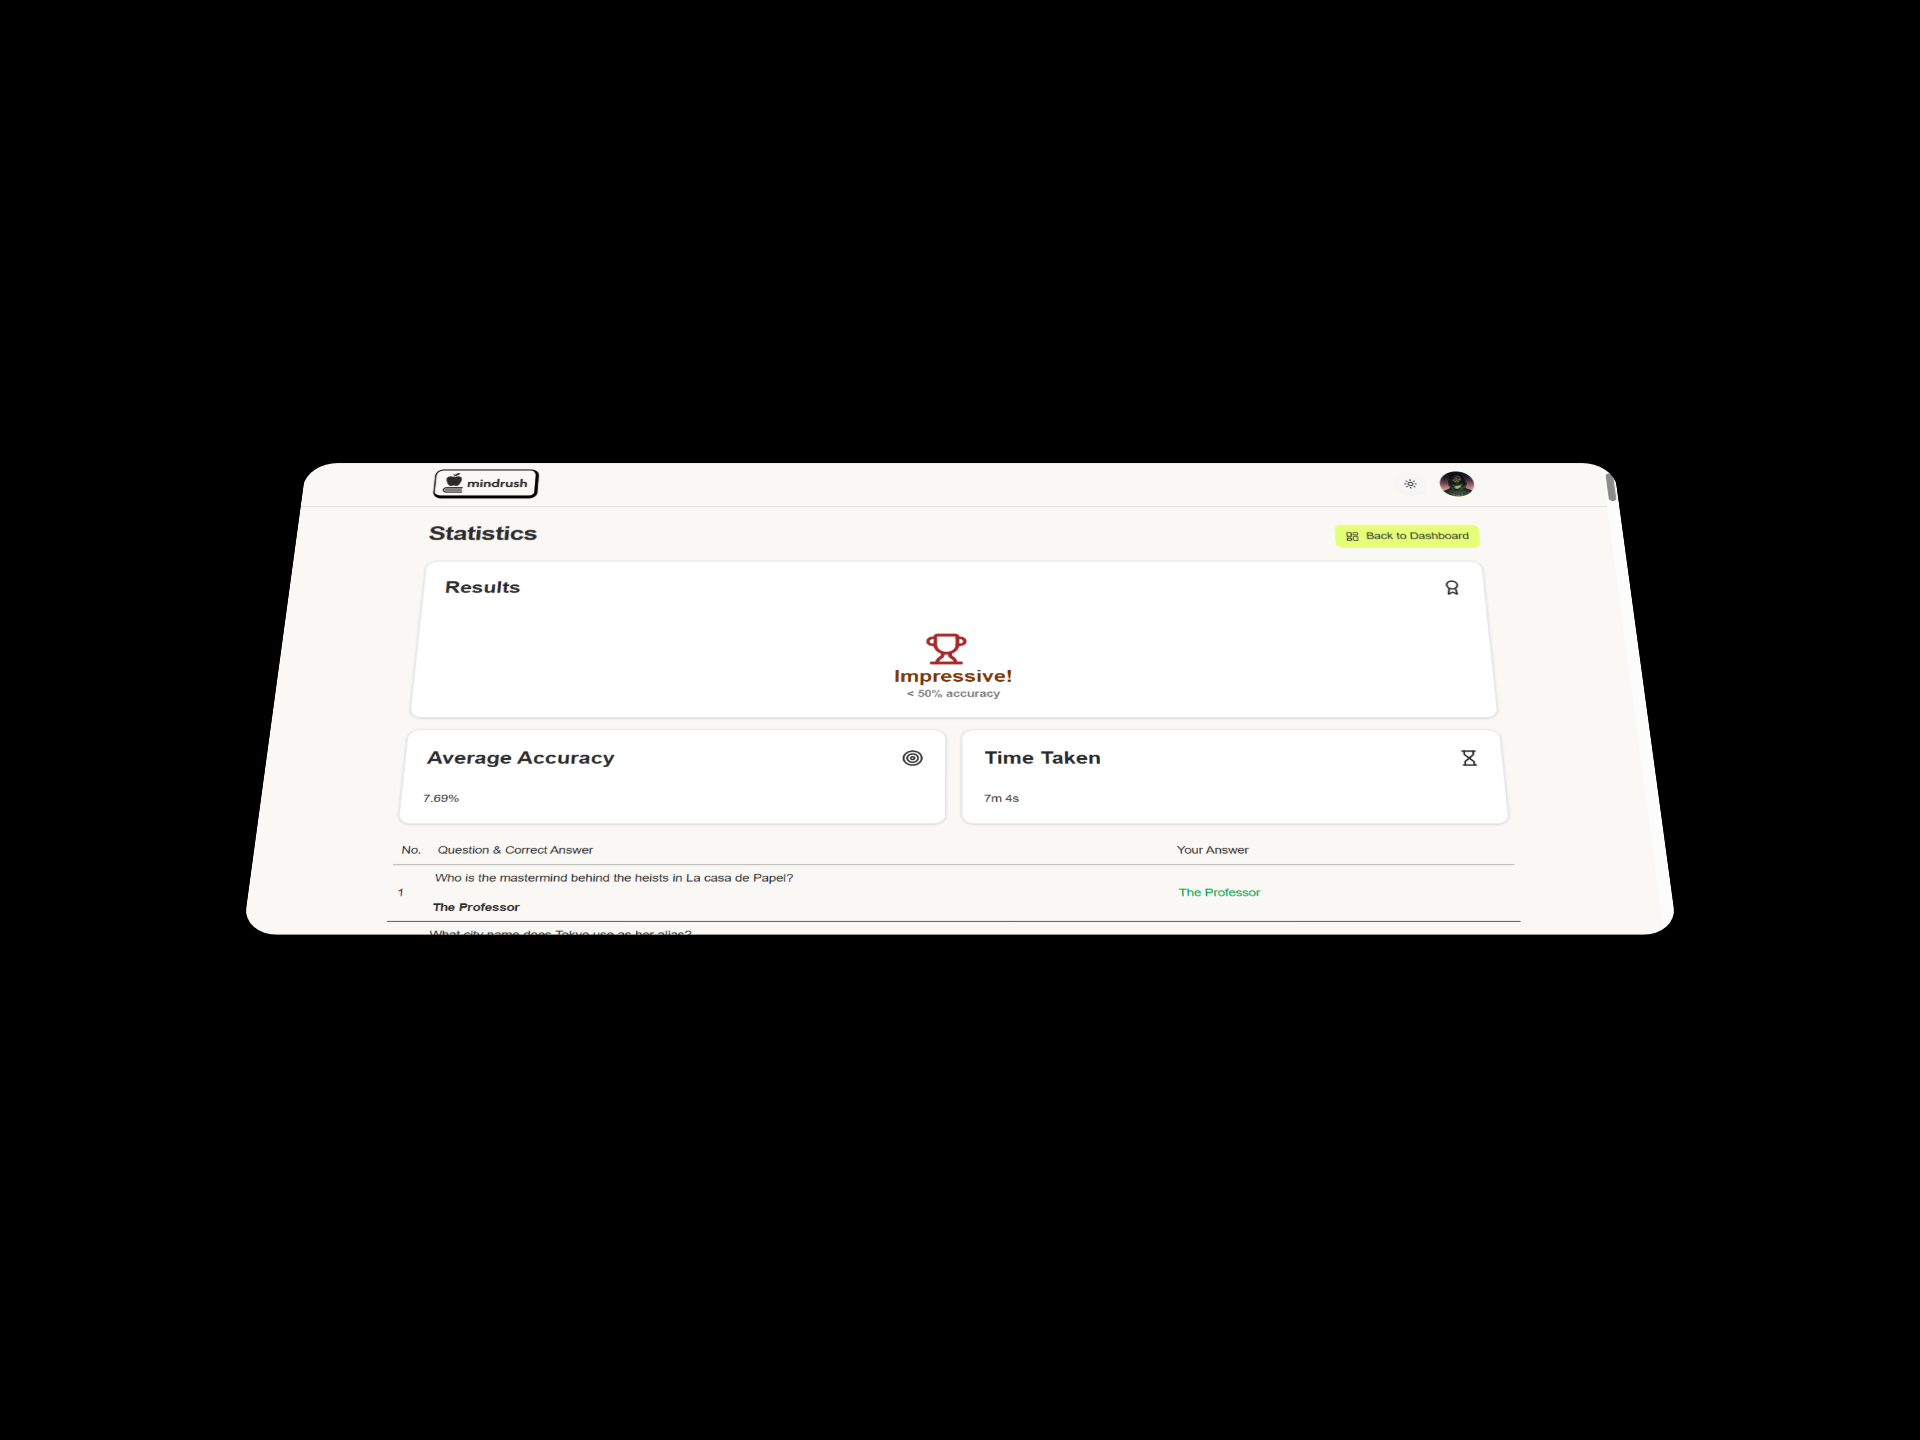
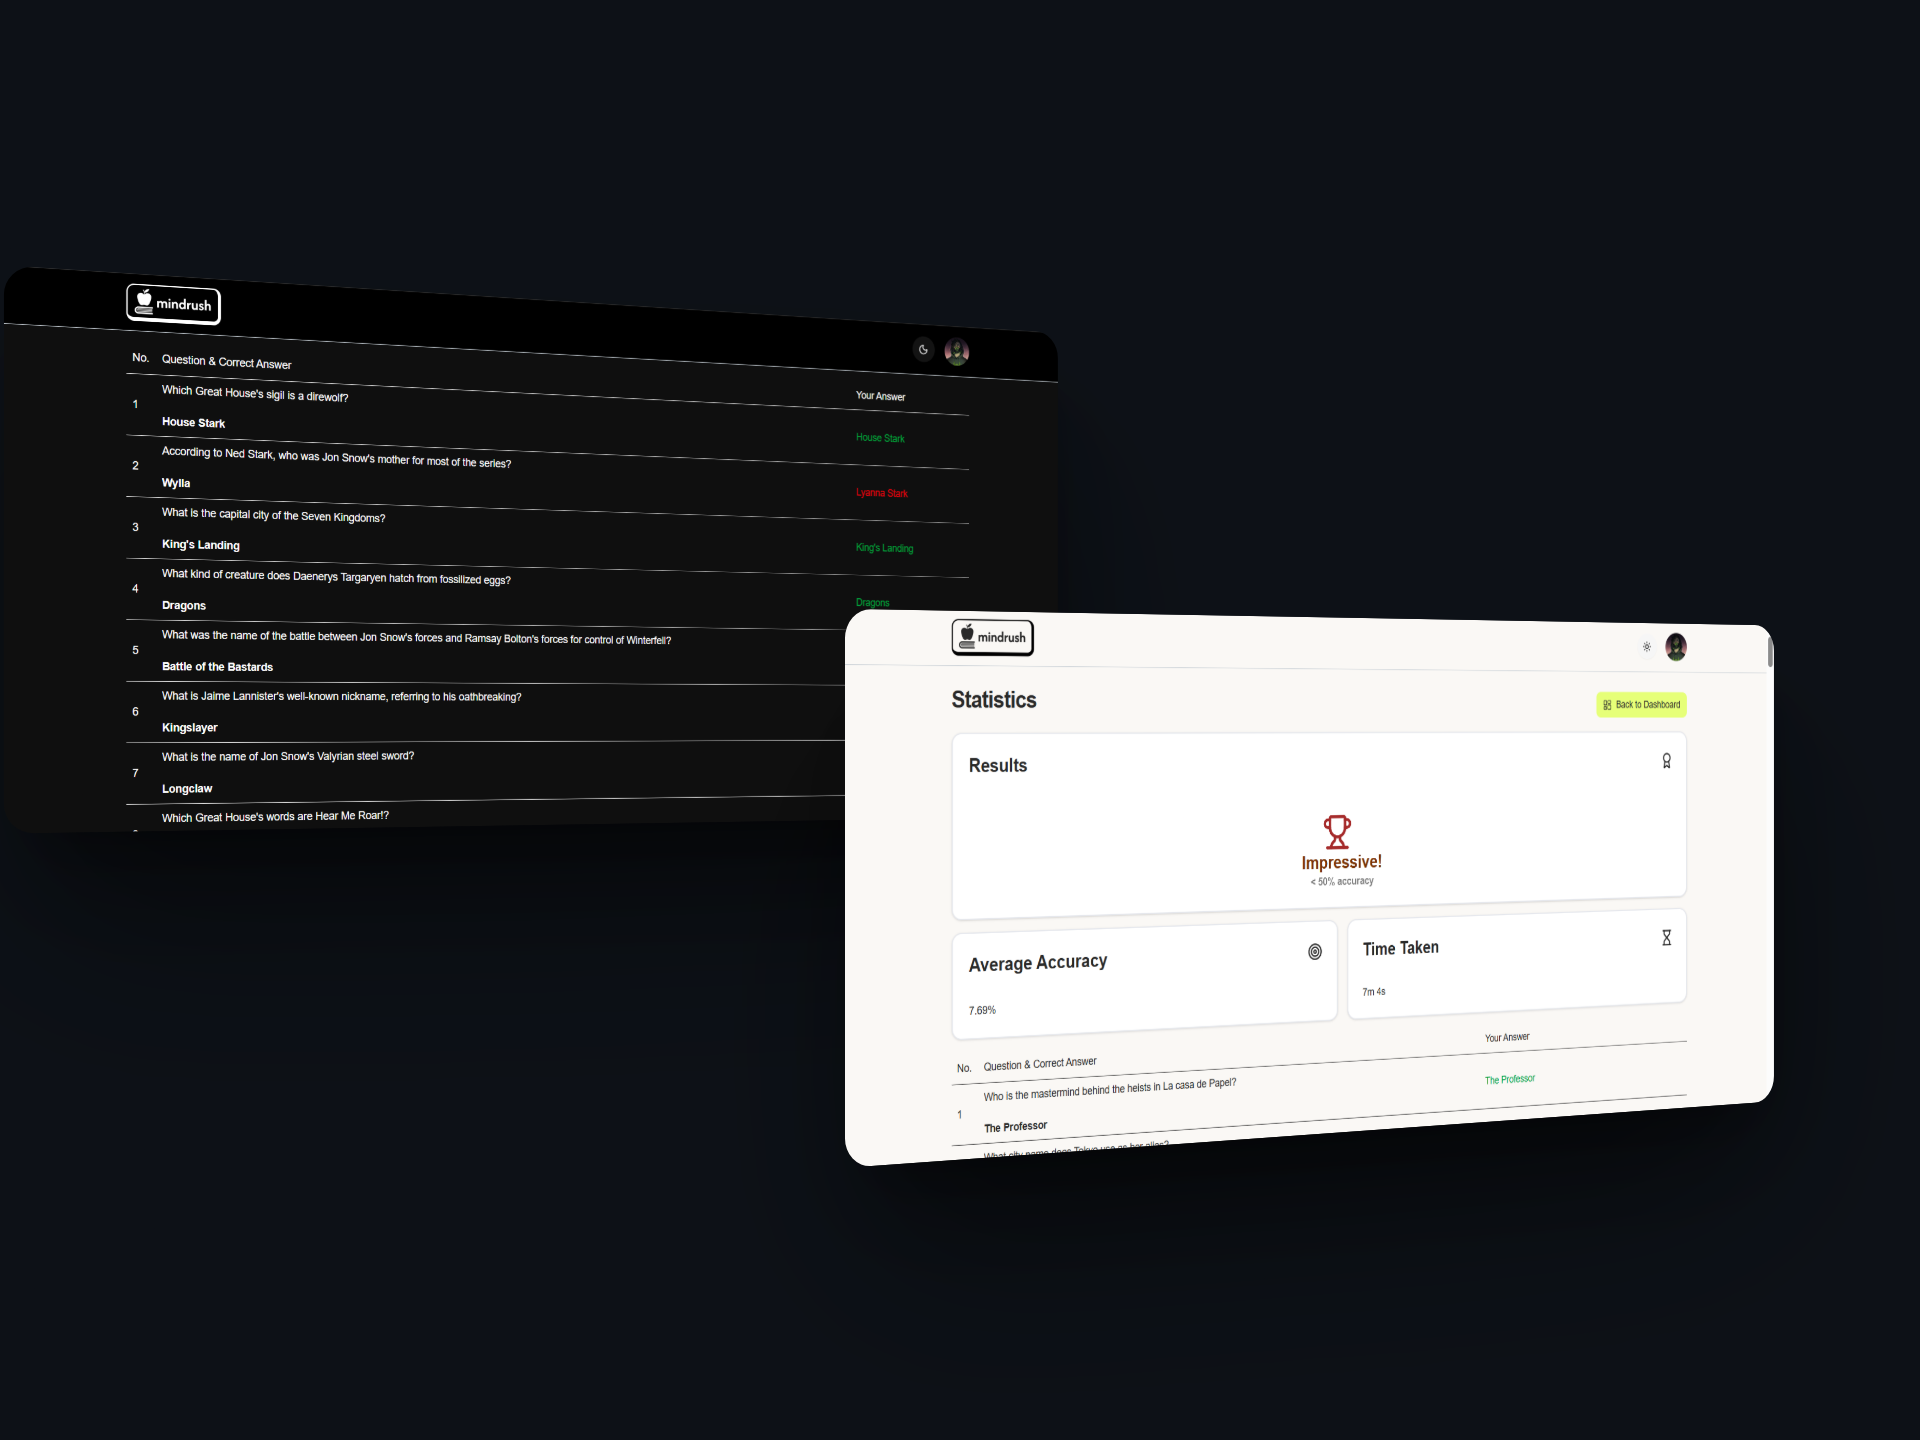
Readme.md

Changed region(s): [[0.0625, 0.1875, 0.9375, 0.8125], [0.4688, 0.2188, 0.5, 0.25]]

diff --git a/README.md b/README.md
@@ -32,7 +32,7 @@ Mindrush is an interactive web application that allows users to **create, take, 
 
 ## Screenshots
 
-### Home / Quiz Selection
+### Home
 
 ![Home](./public/screenshots/home.png)
 